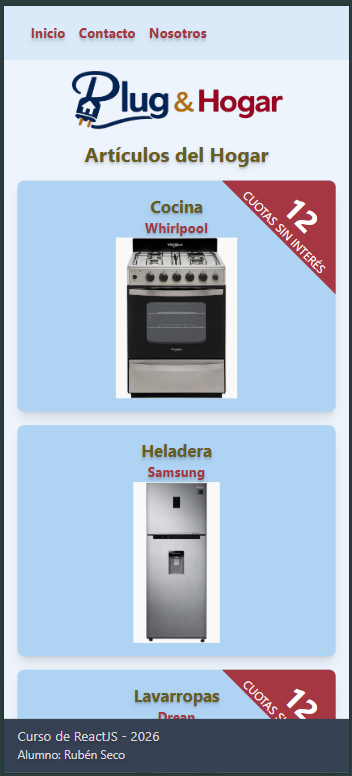
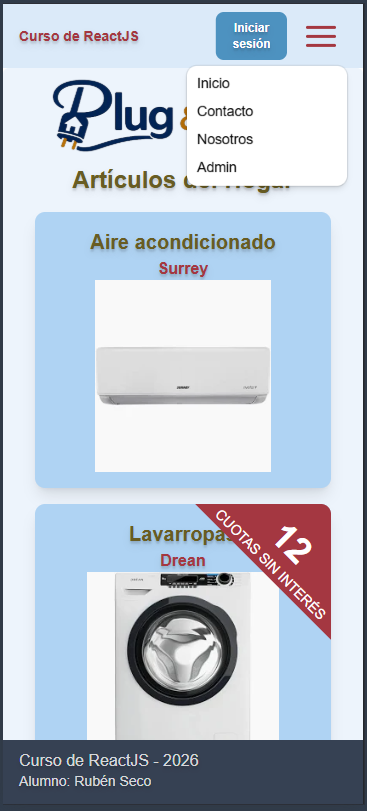
Enhance authentication flow and update README.md
- Implement user feedback using SweetAlert for login and registration processes.
- Refactor login and registration logic to handle errors and success messages.
- Update README.md to include new screenshots demonstrating mobile-first design.
- Remove unused button component to streamline the codebase.
- Adjust styles in src/styles.css for improved UI consistency.

diff --git a/src/auth/services/auth.service.js b/src/auth/services/auth.service.js
@@ -4,49 +4,30 @@ const auth = getAuth();
 
 export const loginUser = async (data) => {
   const { email, password } = data;
-  await signInWithEmailAndPassword(auth, email, password)
-    .then((userCredential) => {
-      const user = userCredential.user;
-      console.log('Usuario logueado con éxito:', user.uid);
-    })
-    .catch((error) => {
-      console.error('Error al iniciar sesión:', error.code, error.message);
-      throw error;
-    });
+  try {
+    const userCredential = await signInWithEmailAndPassword(auth, email, password);
+    return { user: userCredential.user, error: null };
+  } catch (error) {
+    return { user: null, error: { code: error.code, message: error.message } };
+  }
 };
 
 
 export const registerUser = async (data) => {
   const { email, password } = data;
-  await createUserWithEmailAndPassword(auth, email, password)
-    .then((userCredential) => {
-      // The user has been registered and has logged in automatically
-      const user = userCredential.user;
-      console.log('Usuario creado con éxito:', user.uid);
-      // Here you can redirect the user or show a success message
-    })
-    .catch((error) => {
-      const errorCode = error.code;
-      const errorMessage = error.message;
-
-      // Common error handling
-      if (errorCode === 'auth/email-already-in-use') {
-        alert('El correo ya está registrado.');
-      } else if (errorCode === 'auth/weak-password') {
-        alert('La contraseña es muy débil.');
-      } else {
-        console.error('Error al registrar:', errorMessage);
-      }
-    });
+  try {
+    const userCredential = await createUserWithEmailAndPassword(auth, email, password);
+    return { user: userCredential.user, error: null };
+  } catch (error) {
+    return { user: null, error: { code: error.code, message: error.message } };
+  }
 };
 
 export const logoutUser = async () => {
-  await signOut(auth)
-    .then(() => {
-      console.log('Usuario deslogueado con éxito');
-    })
-    .catch((error) => {
-      console.error('Error al desloguear:', error.code, error.message);
-      throw error;
-    });
+  try {
+    await signOut(auth);
+    return { error: null };
+  } catch (error) {
+    return { error: { code: error.code, message: error.message } };
+  }
 };

diff --git a/src/auth/pages/LoginPage.jsx b/src/auth/pages/LoginPage.jsx
@@ -1,20 +1,45 @@
-
 import { useForm } from 'react-hook-form';
 import { useNavigate, Link } from 'react-router-dom';
 import { loginUser } from '../services/auth.service';
+import Swal from 'sweetalert2';
 
 export const LoginPage = () => {
-
   const navigate = useNavigate();
   const {
     register,
     handleSubmit,
+    reset,
     formState: { errors },
   } = useForm();
 
   const onSubmit = async (data) => {
-    await loginUser(data);
-    navigate('/dashboard');
+    const { user, error } = await loginUser(data);
+    if (error) {
+      Swal.fire({
+        title: 'Error',
+        text: 'Credenciales no válidas',
+        icon: 'error',
+        showConfirmButton: true,
+        confirmButtonText: 'OK',
+      }).then((result) => {
+        if (result.isConfirmed) {
+          reset();
+          navigate('/auth/login');
+        }
+      });
+    }
+    Swal.fire({
+      title: 'Usuario logueado',
+      text: `Bienvenido ${user.email}`,
+      icon: 'success',
+      showConfirmButton: true,
+      confirmButtonText: 'OK',
+    }).then((result) => {
+      if (result.isConfirmed) {
+        reset();
+        navigate('/dashboard');
+      }
+    });
   };
 
   return (
@@ -62,7 +87,10 @@ export const LoginPage = () => {
           <Link
             to='/auth/register'
             className='text-accent-600 text-shadow-lg text-sm md:text-md font-bold text-center'>
-            ¿No tienes una cuenta? <span className=' bg-primary-600 text-white/80 rounded-md p-2 m-2 hover:bg-primary-700 transition-colors duration-300 cursor-pointer flex items-center justify-center'>Regístrate</span>
+            ¿No tienes una cuenta?{' '}
+            <span className=' bg-primary-600 text-white/80 rounded-md p-2 m-2 hover:bg-primary-700 transition-colors duration-300 cursor-pointer flex items-center justify-center'>
+              Regístrate
+            </span>
           </Link>
         </form>
       </div>

diff --git a/src/auth/pages/RegisterPage.jsx b/src/auth/pages/RegisterPage.jsx
@@ -1,7 +1,7 @@
 import { useForm } from 'react-hook-form';
 import { registerUser } from '../services/auth.service';
 import { useNavigate } from 'react-router-dom';
-
+import Swal from 'sweetalert2';
 
 export const RegisterPage = () => {
   const navigate = useNavigate();
@@ -12,13 +12,35 @@ export const RegisterPage = () => {
     formState: { errors },
   } = useForm();
 
-
   const onSubmit = async (data) => {
-    await registerUser(data);
-    reset();
-    navigate('/dashboard');
+    const { user, error } = await registerUser(data);
+    if (error) {
+      Swal.fire({
+        title: 'Error',
+        text: 'Error al registrar usuario: ' + error.message,
+        icon: 'error',
+        showConfirmButton: true,
+        confirmButtonText: 'OK',
+      }).then((result) => {
+        if (result.isConfirmed) {
+          reset();
+          navigate('/auth/register');
+        }
+      });
+    }
+    Swal.fire({
+      title: 'Usuario registrado',
+      text: `Bienvenido ${user.email}`,
+      icon: 'success',
+      showConfirmButton: true,
+      confirmButtonText: 'OK',
+    }).then((result) => {
+      if (result.isConfirmed) {
+        reset();
+        navigate('/dashboard');
+      }
+    });
   };
-
 
   return (
     <div>

diff --git a/src/features/dashboard/pages/DashboardPage.jsx b/src/features/dashboard/pages/DashboardPage.jsx
@@ -105,7 +105,6 @@ export const DashboardPage = () => {
       </div>
 
       {/* Desktop: table */}
-      <table className='hidden w-full ... md:table'>...</table>
 
       <table className='w-full border-collapse border border-gray-300 shadow-md hidden md:table'>
         <thead className='bg-primary-100 text-gray-700 text-shadow-md'>

diff --git a/src/styles.css b/src/styles.css
@@ -10,10 +10,6 @@
     box-sizing: border-box;
 
   }
-   button:not(:disabled),
-  [role="button"]:not(:disabled) {
-    cursor: pointer;
-  }
   
 }
 

diff --git a/README.md b/README.md
@@ -14,26 +14,29 @@ Aplicar las operaciones CRUD (**Create, Read, Update, Delete**) con Firestore,
 comprendiendo cuándo y cómo usar addDoc(), setDoc(), updateDoc() y deleteDoc(),
 así como el uso de lecturas en tiempo real.
 
-
 ### Como ejecutar la tarea:
 
 1. Clonar el repositorio:
+
 ```bash
 git clone https://github.com/Diplomatura-Full-Stack-Developer/ReactJS-M3-T2.git
 
 ```
 
 2. Instalar las dependencias:
+
 ```bash
 npm install
 ```
 
-3. Crear un archivo `.env`  copia de `.env.template` en la raíz del proyecto.
+3. Crear un archivo `.env` copia de `.env.template` en la raíz del proyecto.
+
 ```bash
 cp .env.template .env
 ```
 
 4. Agregar las variables de entorno en el archivo `.env`:
+
 ```bash
 VITE_FIREBASE_API_KEY=
 VITE_FIREBASE_AUTH_DOMAIN=
@@ -44,27 +47,26 @@ VITE_FIREBASE_APP_ID=
 VITE_FIREBASE_MEASUREMENT_ID=
 ```
 
-
 5. Ejecutar el comando: firebase deploy --only firestore:rules para poder acceder a la base de datos de Firebase.
+
 ```bash
 firebase deploy --only firestore:rules
 ```
+
+**Nota**: No es necesario hacer el _deploy_ para poder acceder a la base de datos de Firebase.
 
 ### Configuración de Firebase:
 
 Dentro de la aplicación se crea la carpeta `firebase` en la carpeta `src` del proyecto y se agregan el archivo de configuración de Firebase.
 
 `config.js`
+
 ```js
+import { initializeApp } from 'firebase/app';
+import { getAnalytics } from 'firebase/analytics';
+import { getFirestore } from 'firebase/firestore';
+import { getAuth } from 'firebase/auth';
 
-// Import the functions you need from the SDKs you need
-import { initializeApp } from "firebase/app";
-import { getAnalytics } from "firebase/analytics";
-// TODO: Add SDKs for Firebase products that you want to use
-// https://firebase.google.com/docs/web/setup#available-libraries
-
-// Your web app's Firebase configuration
-// For Firebase JS SDK v7.20.0 and later, measurementId is optional
 const firebaseConfig = {
   apiKey: import.meta.env.VITE_FIREBASE_API_KEY,
   authDomain: import.meta.env.VITE_FIREBASE_AUTH_DOMAIN,
@@ -72,28 +74,30 @@ const firebaseConfig = {
   storageBucket: import.meta.env.VITE_FIREBASE_STORAGE_BUCKET,
   messagingSenderId: import.meta.env.VITE_FIREBASE_MESSAGING_SENDER_ID,
   appId: import.meta.env.VITE_FIREBASE_APP_ID,
-  measurementId: import.meta.env.VITE_FIREBASE_MEASUREMENT_ID
+  measurementId: import.meta.env.VITE_FIREBASE_MEASUREMENT_ID,
 };
 
-// Initialize Firebase
 export const app = initializeApp(firebaseConfig);
 export const analytics = getAnalytics(app);
-
+export const db = getFirestore(app);
+export const auth = getAuth();
 ```
 
 ### Consideraciones generales de la tarea:
 
-Se utiliza como base de partida la tarea 1 del modulo 3 (Firebase - Parte I). 
-El objetivo es avanzar hacia lo que podría ser la tarea final integradora del curso. 
+Se utiliza como base de partida la tarea 1 del modulo 3 (Firebase - Parte I).
+El objetivo es avanzar hacia lo que podría ser la tarea final integradora del curso.
 
 ### Consideraciones sobre la base de datos:
 
-Se ejecuta desde la consola de DevTools de Chrome el comando:
+Ejecutar desde la consola de DevTools de Chrome el comando:
 
 ```js
 await seedProducts();
 ```
+
 para crear los productos de prueba en la base de datos de Firestore.
+Si la colección no existe, se crea automáticamente y se agregan los productos de prueba.
 
 ### Consideraciones del **update** de un producto:
 
@@ -104,6 +108,38 @@ Modificar otros campos, implicaría crear un producto distinto sobre uno existen
 
 El producto se marca como borrado (soft delete) para cumplir con la consigna de uso de **setDoc()** con **{ merge: true }**.
 El producto se puede eliminar permanentemente desde la sección de productos borrados para cumplir con la consigna de uso de **deleteDoc()**.
+
+### Captura de pantallas de la aplicación:
+
+Las capturas se realizan de las pantallas para dispositivos móviles,
+para mostrar que se realizó la tarea aplicando la técnica de **mobile first**.
+
+<table>
+  <thead>
+    <tr align="center">
+      <th style="font-size: 12px;">Inicio</th>
+      <th style="font-size: 12px;">Panel de administración</th>
+      <th style="font-size: 12px;">Login</th>
+      <th style="font-size: 12px;">Register</th>
+    </tr>
+  </thead>
+  <tbody>
+  <tr>
+    <td width="25%">
+      <img src="src/assets/images/init.png" alt="Inicio" />
+    </td>
+    <td width="25%">
+      <img src="src/assets/images/admin.png" alt="Panel de administración" />
+    </td>
+    <td width="25%">
+      <img src="src/assets/images/login.png" alt="Login" />
+    </td>
+    <td width="25%">
+      <img src="src/assets/images/register.png" alt="Register" />
+    </td>
+  </tr>
+  </tbody>
+</table>
 
 ### Recursos utilizados en la tarea:
 
@@ -117,6 +153,3 @@ El producto se puede eliminar permanentemente desde la sección de productos bor
 ### Alumno: Rubén Seco
 
 ### Comisión: 181752
-
-
-
